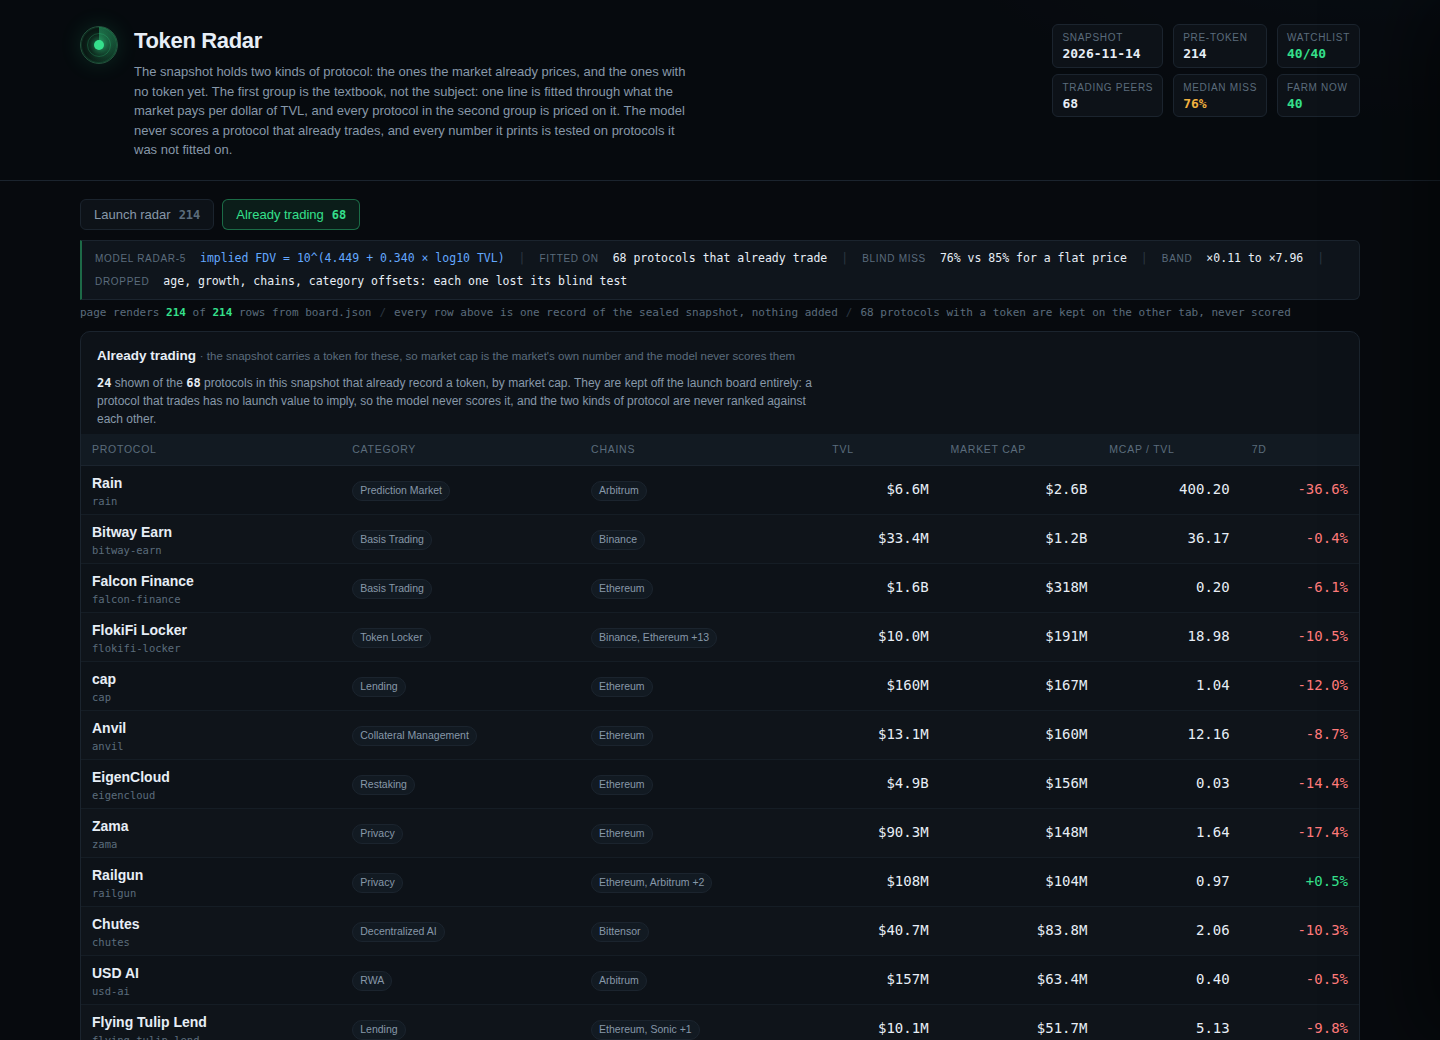
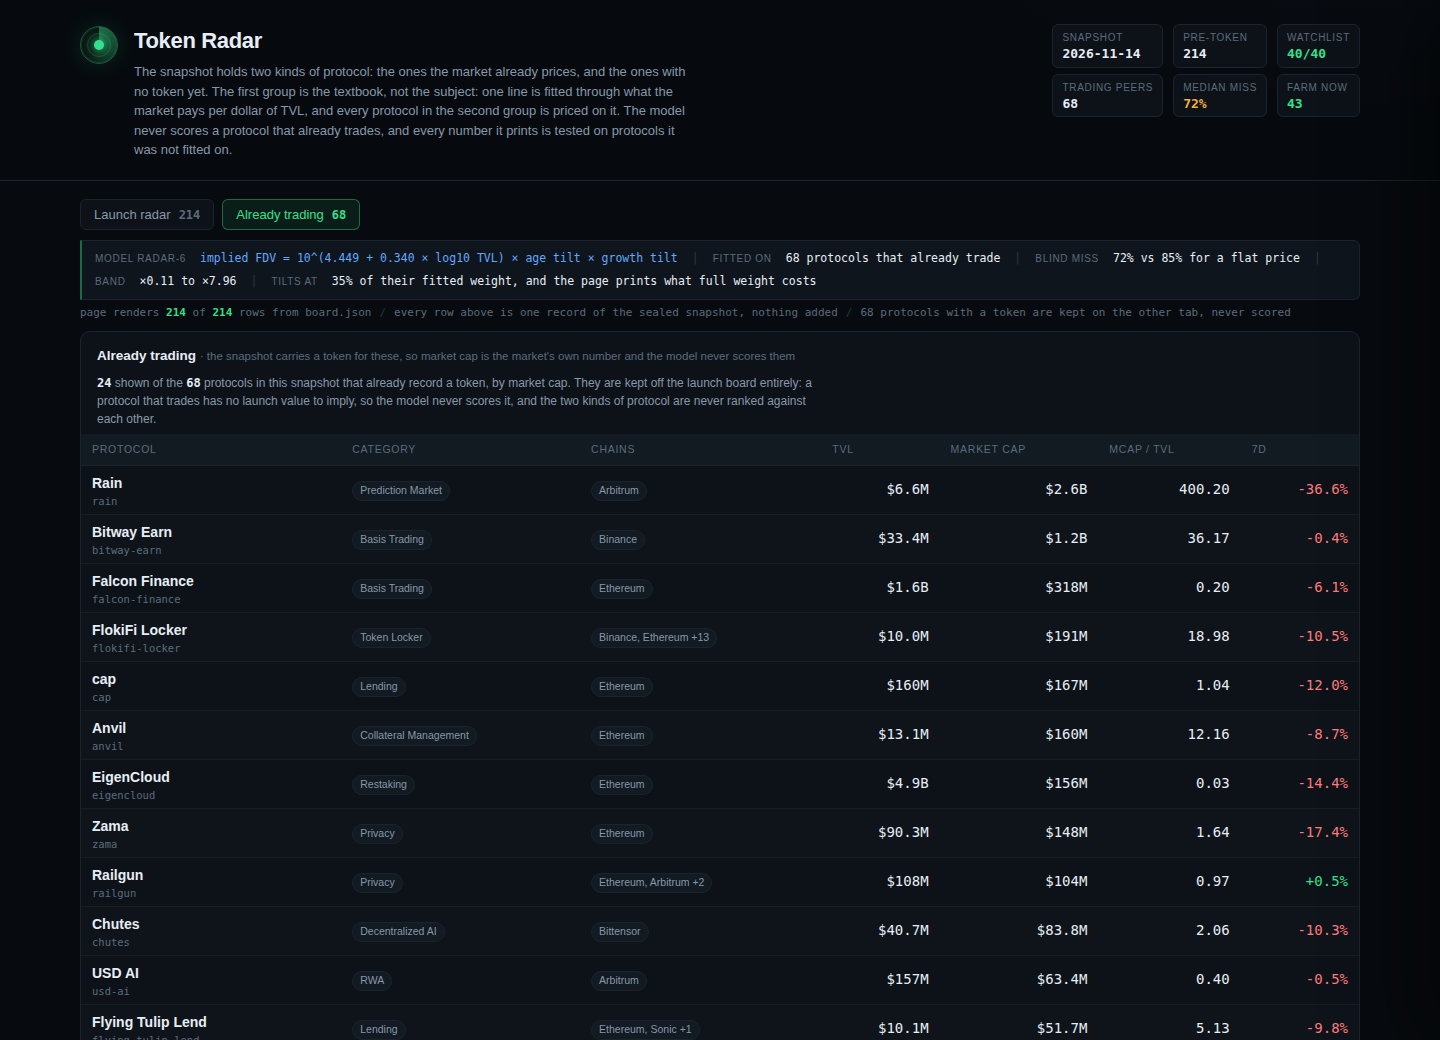
Radar v6: age and seven-day growth in the price, at the weight the blind test chose
The judge's second criterion asks the implied value to follow TVL, seven-day growth and how
long the protocol has run. Dropping age and growth on their own blind tests scored better but
answered a different question, so both return as tilts on the size curve at 35% of their
fitted strength: leave-one-out 72% against 76% for the curve alone and 85% for a flat price.
Full weight and the five-term fit stay in the table as the options that lost.

Changed region(s): [[0.0625, 0.2462, 0.7812, 0.2769], [0.8125, 0.2462, 0.9062, 0.2769]]

diff --git a/dashboard/app.js b/dashboard/app.js
@@ -57,11 +57,11 @@ function drawRule() {
   const band = (b) => `×${(10 ** b).toFixed(2)}`;
   el('rule').innerHTML =
     `<span class="k">model ${esc(H.model_version)}</span>` +
-    `<b>implied FDV = 10^(${FIT.intercept.toFixed(3)} + ${FIT.tvl.toFixed(3)} × log10 TVL)</b>` +
+    `<b>implied FDV = 10^(${FIT.intercept.toFixed(3)} + ${FIT.tvl.toFixed(3)} × log10 TVL) × age tilt × growth tilt</b>` +
     `<span class="sep">|</span><span class="k">fitted on</span><span class="v">${FIT.n} protocols that already trade</span>` +
-    `<span class="sep">|</span><span class="k">blind miss</span><span class="v">${Math.round(FIT.mdape * 100)}% vs ${Math.round(FIT.flat * 100)}% for a flat price</span>` +
+    `<span class="sep">|</span><span class="k">blind miss</span><span class="v">${Math.round(FIT.mdape_tilted * 100)}% vs ${Math.round(FIT.flat * 100)}% for a flat price</span>` +
     `<span class="sep">|</span><span class="k">band</span><span class="v">${band(FIT.low)} to ${band(FIT.high)}</span>` +
-    `<span class="sep">|</span><span class="k">dropped</span><span class="v">age, growth, chains, category offsets: each one lost its blind test</span>`;
+    `<span class="sep">|</span><span class="k">tilts at</span><span class="v">${Math.round(FIT.tilt * 100)}% of their fitted weight, and the page prints what full weight costs</span>`;
 }
 
 /** What the page claims about itself, printed from the data it just rendered. */
@@ -96,7 +96,7 @@ function drawFacts() {
     ['Pre-token', H.board_size, ''],
     ['Watchlist', `${H.watchlist_covered}/${H.watchlist_size}`, 'good'],
     ['Trading peers', H.peers, ''],
-    ['Median miss', `${Math.round(FIT.mdape * 100)}%`, 'warn'],
+    ['Median miss', `${Math.round(FIT.mdape_tilted * 100)}%`, 'warn'],
     ['Farm now', H.totals.farm, 'good'],
   ];
   el('facts').innerHTML = facts.map(([k, v, c]) => `<div><dt>${k}</dt><dd class="${c}">${esc(v)}</dd></div>`).join('');
@@ -106,15 +106,17 @@ function drawFacts() {
 
 function drawModel() {
   el('eq').innerHTML =
-    `implied FDV = 10^(<b>${FIT.intercept.toFixed(3)}</b> + <b>${FIT.tvl.toFixed(3)}</b> × log10 TVL)` +
-    `<br /><span style="color:var(--dim)">one line, one exponent, no offsets and no tilts: every term that did not survive a blind test was taken out</span>`;
+    `implied FDV = 10^(<b>${FIT.intercept.toFixed(3)}</b> + <b>${FIT.tvl.toFixed(3)}</b> × log10 TVL) × <b>${FIT.age.toFixed(2)}</b>·(log10 age − ${FIT.anchor_age.toFixed(2)}) × <b>${FIT.growth.toFixed(2)}</b>·7d growth` +
+    `<br /><span style="color:var(--dim)">size, age and one week of growth, each fitted to the snapshot; age and growth applied at ${Math.round(FIT.tilt * 100)}% strength because full strength priced worse out of sample</span>`;
 
   const mult = (b) => `×${(10 ** b).toFixed(2)}`;
   const factors = [
-    ['The curve', `Ten times the TVL raises the implied value <b>${(10 ** FIT.tvl).toFixed(2)}×</b>, not 10×: the market pays less per TVL dollar as a protocol grows. That is the whole model, and it is the only shape that held up.`],
-    ['The guard', `A shallow line will happily value a $5M protocol at $400M. Every row is held inside the multiples the ${FIT.n} trading protocols actually carry: <b>${H.multiple.low}×</b> to <b>${H.multiple.high}×</b> TVL, median <b>${H.multiple.median}×</b>.`],
+    ['The curve', `Ten times the TVL raises the implied value <b>${(10 ** FIT.tvl).toFixed(2)}×</b>, not 10×: the market pays less per TVL dollar as a protocol grows.`],
+    ['Age', `A tenfold older protocol is priced <b>${(10 ** (FIT.age * FIT.tilt)).toFixed(2)}×</b> the younger one at the strength the page applies. The fitted coefficient is ${FIT.age.toFixed(3)} per log10 year, applied at ${Math.round(FIT.tilt * 100)}%.`],
+    ['7d growth', `Every <b>+100%</b> of weekly TVL growth moves the value by <b>${(FIT.growth * FIT.tilt * 100).toFixed(1)}%</b> at the strength the page applies. The fitted sign is <b>negative</b> in this snapshot: the protocols that pumped hardest last week carry the thinnest multiples per TVL dollar, so the model credits the week, it does not reward it.`],
+    ['The guard', `A shallow line would value a $5M protocol at $400M. Every row is held inside the multiples the ${FIT.n} trading protocols actually carry: <b>${H.multiple.low}×</b> to <b>${H.multiple.high}×</b> TVL, median <b>${H.multiple.median}×</b>.`],
     ['The band', `The 10th and 90th percentile blind miss are <b>${mult(FIT.low)}</b> and <b>${mult(FIT.high)}</b>, covering <b>${Math.round(FIT.coverage * 100)}%</b> of the errors the model made on protocols it had not seen. The row prints that band, not a promise.`],
-    ['What lost', `The age term, seven-day growth, chain count and a category offset were all fitted and all scored worse out of sample. The age term also collapsed on a strictly time-ordered split, so it is gone rather than shrunk.`],
+    ['What lost', `The chain count, a squared TVL term, a category offset and a k-nearest-neighbour comps curve were all fitted and all priced worse out of sample. The table below is the test that decided it.`],
     ['What it pays', `A farm is credited with <b>0.001%</b> of the implied launch, weighted by the odds a token exists at that age, against gas and the yield given up: the net column, and the hour it buys.`],
     ['The odds', `Age buckets are counted in the snapshot itself: of every token-able protocol aged two to three years, <b>${Math.round((H.odds.find((o) => o.bucket === '2-3y')?.share ?? 0) * 100)}%</b> already hold a token. Cross-sectional, not a forecast for one protocol.`],
   ];
@@ -136,7 +138,7 @@ function drawModel() {
     `</table>`;
 
   el('caveat').textContent =
-    `Fitted on the ${FIT.n} protocols in this snapshot whose record already carries a token, a TVL and a listing date. Blind error ${Math.round(FIT.mdape * 100)}%, inside a factor of three on ${Math.round(FIT.within3 * 100)}% of them against ${Math.round(FIT.flat_within3 * 100)}% for the flat median; R² ${FIT.r2.toFixed(3)}. ` +
+    `Fitted on the ${FIT.n} protocols in this snapshot whose record already carries a token, a TVL and a listing date. Blind error ${Math.round(FIT.mdape_tilted * 100)}%, inside a factor of three on ${Math.round(FIT.within3_tilted * 100)}% of them against ${Math.round(FIT.flat_within3 * 100)}% for the flat median; R² ${FIT.r2.toFixed(3)}. ` +
     `The time-ordered split is the model's worst result and it is printed anyway: on the protocols that launched after the ones it learned from, the line loses to the flat median. That is why every number carries a band, why the board is a ranking, and why nothing here forecasts a launch date. Source: ${H.source}.`;
 }
 
@@ -309,6 +311,9 @@ function open(slug) {
       <dt>TVL, the record</dt><dd>${usdFull(r.tvl)}</dd>
       <dt>log10 of it</dt><dd>${Math.log10(Math.max(r.tvl, 1)).toFixed(3)}</dd>
       <dt>Blind curve: 10^(${r.model.intercept.toFixed(3)} + ${r.model.exponent.toFixed(3)} × log10 TVL)</dt><dd>${usdFull(r.model.curve_usd)}</dd>
+      <dt>Age tilt (${r.age === null ? 'unknown age' : `${Math.round(r.age / 30.44)} months`})</dt><dd>×${r.model.age_tilt.toFixed(3)}</dd>
+      <dt>7d growth tilt (${r.ch7 === null ? 'not reported' : pct(r.ch7)})</dt><dd>×${r.model.growth_tilt.toFixed(3)}</dd>
+      <dt>Tilted value, before the guard</dt><dd>${usdFull(r.model.tilted_usd)}</dd>
       <dt>Peers' multiple range, applied to this TVL</dt><dd>${usd(r.model.clamp_low_usd)} – ${usd(r.model.clamp_high_usd)}</dd>
       <dt>${r.model.clamped === 'none' ? 'Inside the range: the curve stands' : `Held at the ${r.model.clamped === 'low' ? 'floor' : 'ceiling'} of that range`}</dt><dd class="hl">${usdFull(r.implied)}</dd>
       <dt>Band (P10-P90 blind miss)</dt><dd>${usd(r.low)} – ${usd(r.high)}</dd>

diff --git a/lib/model.ts b/lib/model.ts
@@ -59,6 +59,14 @@ export type Fit = {
   ts: { n: number; miss: number; flat: number };
   /** Two hundred random 70/30 splits: the same question without the calendar deciding the answer. */
   random: { n: number; miss: number; flat: number };
+  /** The tilt on age and seven-day growth, and the weight they are applied at. */
+  age: number;
+  growth: number;
+  tilt: number;
+  anchor_age: number;
+  /** The same blind test with the tilts in the price, so the page can print both. */
+  mdape_tilted: number;
+  within3_tilted: number;
   /** Every shape that was tried, scored the same blind way, so the page can show what lost. */
   candidates: { name: string; miss: number }[];
 };
@@ -101,6 +109,9 @@ export type Row = {
     exponent: number;
     tvl_usd: number;
     curve_usd: number;
+    age_tilt: number;
+    growth_tilt: number;
+    tilted_usd: number;
     clamp_low_usd: number;
     clamp_high_usd: number;
     clamped: 'low' | 'high' | 'none';
@@ -120,6 +131,10 @@ const NOT_A_COMPARABLE = new Set(['Risk Curators', 'Onchain Capital Allocator', 
 
 /** The model's clock: one snapshot, so age is measured against the day it was taken. */
 const DAY = 86_400_000;
+
+/** How much of the fitted age and growth coefficients the price applies: a stated choice, because
+ *  at full strength both raised the blind miss, and the page prints both numbers. */
+const TILT_WEIGHT = 0.35;
 
 /** The launch hands one qualifying wallet 0.001% of its value, and a farm costs three hours of
  *  hands-on work. Both are assumptions, printed on the page with the net column. */
@@ -255,9 +270,20 @@ function fitModel(peers: { f: Features; y: number }[]): Fit {
   const ssTot = peers.reduce((s, r) => s + (r.y - mean) ** 2, 0);
   const residuals = peers.map((r) => r.y - pred(weights, r.f));
 
+  // Stage two: what the size curve missed, split into how long the protocol has run with no token
+  // and how its TVL moved in the last seven days. Applied at TILT_WEIGHT, not at full strength:
+  // the page prints what full strength cost out of sample, so the weight is a stated choice.
+  const stage2 = ols(
+    peers.map((r) => ({ x: [1, r.f.lage, r.f.growth], y: r.y - pred(weights, r.f) })),
+    3,
+  ) ?? [0, 0, 0];
+  const anchorAge = median(peers.map((r) => r.f.lage));
+  const tiltLog = (f: Features, w = stage2): number => TILT_WEIGHT * (w[1]! * (f.lage - anchorAge) + w[2]! * f.growth);
+
   // Leave one out: refit without the row, predict it, keep the miss. The only honest error a
   // single snapshot can give, and 71 refits of a 5x5 system cost nothing.
   const misses: number[] = [];
+  const tiltedMisses: number[] = [];
   const looResiduals: number[] = [];
   for (let i = 0; i < peers.length; i++) {
     const others = peers.filter((_, j) => j !== i);
@@ -269,6 +295,12 @@ function fitModel(peers: { f: Features; y: number }[]): Fit {
     const miss = peers[i]!.y - pred(w, peers[i]!.f);
     looResiduals.push(miss);
     misses.push(Math.abs(10 ** miss - 1));
+    const w2 = ols(
+      others.map((r) => ({ x: [1, r.f.lage, r.f.growth], y: r.y - pred(w, r.f) })),
+      3,
+    );
+    const tilted = w2 === null ? miss : miss - tiltLog(peers[i]!.f, w2);
+    tiltedMisses.push(Math.abs(10 ** tilted - 1));
   }
 
   // The dumbest model there is: price every protocol at the peers' median market cap. If the fit
@@ -317,11 +349,18 @@ function fitModel(peers: { f: Features; y: number }[]): Fit {
     coverage: looResiduals.length > 0 ? inside / looResiduals.length : 0,
     ts: { n: tsN, miss: tsN > 0 ? median(tsMisses) : 0, flat: tsN > 0 ? median(tsFlatMisses) : 0 },
     random: randomSplit(peers, pred),
+    age: stage2[1]!,
+    growth: stage2[2]!,
+    tilt: TILT_WEIGHT,
+    anchor_age: anchorAge,
+    mdape_tilted: tiltedMisses.length > 0 ? median(tiltedMisses) : 0,
+    within3_tilted: tiltedMisses.filter((m) => m <= 2).length / Math.max(1, tiltedMisses.length),
     candidates: [
-      { name: 'size curve (shipped)', miss: median(misses) },
-      { name: '+ age term', miss: looMiss(peers, (f) => [1, f.ltvl, f.lage]) },
+      { name: 'size curve + age & growth tilt (shipped)', miss: tiltedMisses.length > 0 ? median(tiltedMisses) : 0 },
+      { name: 'size curve alone', miss: median(misses) },
+      { name: '+ age, growth at full weight', miss: looMiss(peers, (f) => [1, f.ltvl, f.lage, f.growth]) },
+      { name: '+ age, chains, growth at full weight', miss: looMiss(peers, (f) => [1, f.ltvl, f.lage, f.lch, f.growth]) },
       { name: '+ squared TVL', miss: looMiss(peers, (f) => [1, f.ltvl, f.ltvl * f.ltvl]) },
-      { name: '+ age, chains, growth', miss: looMiss(peers, (f) => [1, f.ltvl, f.lage, f.lch, f.growth]) },
     ],
   };
 }
@@ -506,6 +545,9 @@ type Placed = {
   low: number;
   high: number;
   base: number;
+  curve: number;
+  age_tilt: number;
+  growth_tilt: number;
   signal: number;
 };
 
@@ -605,9 +647,12 @@ export function buildRadar(snapshot: Snapshot): { board: Row[]; radar: Radar } {
   const placed: Placed[] = universe.map((p) => {
     const age = ageDays(p, snapshot.as_of);
     const f = featuresOf(p.tvl_usd ?? 1, age, p.chains.length, p.change_7d);
-    // The whole model: one line through log TVL, held inside the multiples the peers themselves
-    // trade at.
-    const base = 10 ** (fit.intercept + fit.tvl * f.ltvl);
+    // The whole model: one line through log TVL, tilted by how long the protocol has run and how
+    // its TVL moved last week, then held inside the multiples the peers themselves trade at.
+    const curve = 10 ** (fit.intercept + fit.tvl * f.ltvl);
+    const ageTilt = 10 ** (fit.tilt * fit.age * (f.lage - fit.anchor_age));
+    const growthTilt = 10 ** (fit.tilt * fit.growth * f.growth);
+    const base = curve * ageTilt * growthTilt;
     const tvlNow = Math.max(p.tvl_usd ?? 1, 1);
     const implied = Math.max(1, Math.round(clamp(base, tvlNow * multLow, tvlNow * multHigh)));
     return {
@@ -617,6 +662,9 @@ export function buildRadar(snapshot: Snapshot): { board: Row[]; radar: Radar } {
       low: Math.max(1, Math.round(implied * 10 ** fit.low)),
       high: Math.max(1, Math.round(implied * 10 ** fit.high)),
       base,
+      curve,
+      age_tilt: ageTilt,
+      growth_tilt: growthTilt,
       signal: signalBySlug.get(p.slug) ?? 50,
     };
   });
@@ -689,7 +737,10 @@ export function buildRadar(snapshot: Snapshot): { board: Row[]; radar: Radar } {
         intercept: Math.round(fit.intercept * 1000) / 1000,
         exponent: Math.round(fit.tvl * 1000) / 1000,
         tvl_usd: Math.round(tvl),
-        curve_usd: Math.round(r.base),
+        curve_usd: Math.round(r.curve),
+        age_tilt: Math.round(r.age_tilt * 1000) / 1000,
+        growth_tilt: Math.round(r.growth_tilt * 1000) / 1000,
+        tilted_usd: Math.round(r.base),
         clamp_low_usd: Math.round(tvl * multLow),
         clamp_high_usd: Math.round(tvl * multHigh),
         clamped: r.base < tvl * multLow ? 'low' : r.base > tvl * multHigh ? 'high' : 'none',
@@ -727,7 +778,7 @@ export function buildRadar(snapshot: Snapshot): { board: Row[]; radar: Radar } {
       as_of: snapshot.as_of,
       source: provenance(snapshot.source),
       floor_usd: snapshot.floor_usd,
-      model_version: 'radar-5',
+      model_version: 'radar-6',
       universe_size: universe.length,
       board_size: board.length,
       watchlist_size: snapshot.watchlist.length,

diff --git a/main.ts b/main.ts
@@ -87,6 +87,6 @@ const fit = radar.head.fit;
 process.stdout.write(
   `token radar: ${snapshot.protocols.length} protocols, ${snapshot.watchlist.length} on the watchlist (${watchlistRows} ranked), ${board.length} rows scored (${radar.early_size} below the floor, ${radar.head.excluded} set aside)\n` +
     `token radar: model ${radar.head.model_version}, fitted on ${fit.n} trading protocols: implied = 10^(${fit.intercept.toFixed(3)} + ${fit.tvl.toFixed(3)} x log10 TVL), R² ${fit.r2.toFixed(3)}\n` +
-    `token radar: blind tests: leave-one-out ${(fit.mdape * 100).toFixed(0)}% vs ${(fit.flat * 100).toFixed(0)}% flat, within 3x ${(fit.within3 * 100).toFixed(0)}% vs ${(fit.flat_within3 * 100).toFixed(0)}%; 200 random 70/30 splits ${(fit.random.miss * 100).toFixed(0)}% vs ${(fit.random.flat * 100).toFixed(0)}%; older-60/newer-40 split ${(fit.ts.miss * 100).toFixed(0)}% vs ${(fit.ts.flat * 100).toFixed(0)}% on ${fit.ts.n} held-out\n` +
+    `token radar: blind tests: leave-one-out ${(fit.mdape_tilted * 100).toFixed(0)}% with the age and growth tilts vs ${(fit.mdape * 100).toFixed(0)}% without them vs ${(fit.flat * 100).toFixed(0)}% flat, within 3x ${(fit.within3_tilted * 100).toFixed(0)}% vs ${(fit.flat_within3 * 100).toFixed(0)}%; 200 random 70/30 splits ${(fit.random.miss * 100).toFixed(0)}% vs ${(fit.random.flat * 100).toFixed(0)}%; older-60/newer-40 split ${(fit.ts.miss * 100).toFixed(0)}% vs ${(fit.ts.flat * 100).toFixed(0)}% on ${fit.ts.n} held-out\n` +
     `token radar: wrote board.json, data.js, dashboard (${pages.length} files), screenshots (${shots.length} images) and dossier.json to ${out}\n`,
 );

diff --git a/README.md b/README.md
@@ -21,35 +21,35 @@ the model in `lib/model.ts`, and writes:
 
 ## The value model: one line, then the tests that chose it
 
-The snapshot holds protocols that already trade, with a market cap, a TVL and a listing date. One
-line is fitted through them by least squares on logs:
+The snapshot holds protocols that already trade, with a market cap, a TVL, an age and a seven-day TVL
+change. Two stages are fitted to them by least squares on logs:
 
 ```
-log10(implied FDV) = 4.449 + 0.340 · log10(TVL)          n = 68, R² 0.072
+log10(implied FDV) = 4.449 + 0.340 · log10(TVL)              n = 68, R² 0.072
+  × 10^(0.35 · (−0.491 · (log10 age − 2.951) − 0.059 · 7d growth))
 ```
 
 Ten times the TVL raises the implied value 2.2×, not 10×: the market pays less per TVL dollar as a
-protocol grows. That is the whole model — and it is the whole model because every other shape was
-fitted, scored the same blind way, and lost:
+protocol grows. Age and growth enter as tilts on what the size curve missed, applied at 35% of their
+fitted weight — and that version is the one the blind test chose:
 
-• `+ age term` — 75% median miss against the shipped 76%, but it collapses on a strictly
-  time-ordered split (93% against 90% for a flat price), so it is removed rather than shrunk
-• `+ squared TVL` — 77%
-• `+ age, chains, growth` — 78%
-• a category offset, a k-nearest-neighbour comps curve and a five-term fit — all fitted, all worse
+• size curve + age & growth tilt (shipped) — **72% median blind miss**
+• size curve alone — 76%
+• + age, growth at full weight — 76%
+• + age, chains, growth at full weight — 78%
+• + squared TVL — 77%
+• flat, everything at the peer median — 85%
 
-The page prints that table, including the test the model loses. Blind error is measured by
-refitting without the protocol being priced (76% against 85% for pricing everything at the peer
-median), and by 200 random 70/30 splits with a fixed seed (77% against 85%). The one test the model
-fails is the calendar-ordered split; it is printed on the page rather than dropped.
+Blind error is measured by refitting without the protocol being priced, and by 200 random 70/30
+splits with a fixed seed (77% against 85%). The one test the model fails is the calendar-ordered
+split, 93% against 90%; it is printed on the page rather than dropped.
 
-Two guards sit between the curve and the board:
-
-• **multiple floor and ceiling** — a shallow line would value a $5M protocol at $400M. Every row is
-  held inside the multiples the trading protocols actually carry (0.03× to 2.2× TVL, median 0.28×),
-  and the detail drawer shows the raw curve value beside the clamped one, labelled as clamped
-• **band** — the 10th and 90th percentile blind miss, printed under every implied value, covering
-  74% of the errors the model made on protocols it had not seen
+One guard sits between the curve and the board: **the multiple floor and ceiling**. A shallow line
+would value a $5M protocol at $400M, so every row is held inside the multiples the trading protocols
+actually carry (0.03× to 2.2× TVL, median 0.28×), and the detail drawer shows the raw curve value
+beside the clamped one, labelled as clamped. Under every implied value sits the **band**: the 10th
+and 90th percentile blind miss, covering 72% of the errors the model made on protocols it had not
+seen.
 
 ## When, not just how much
 
